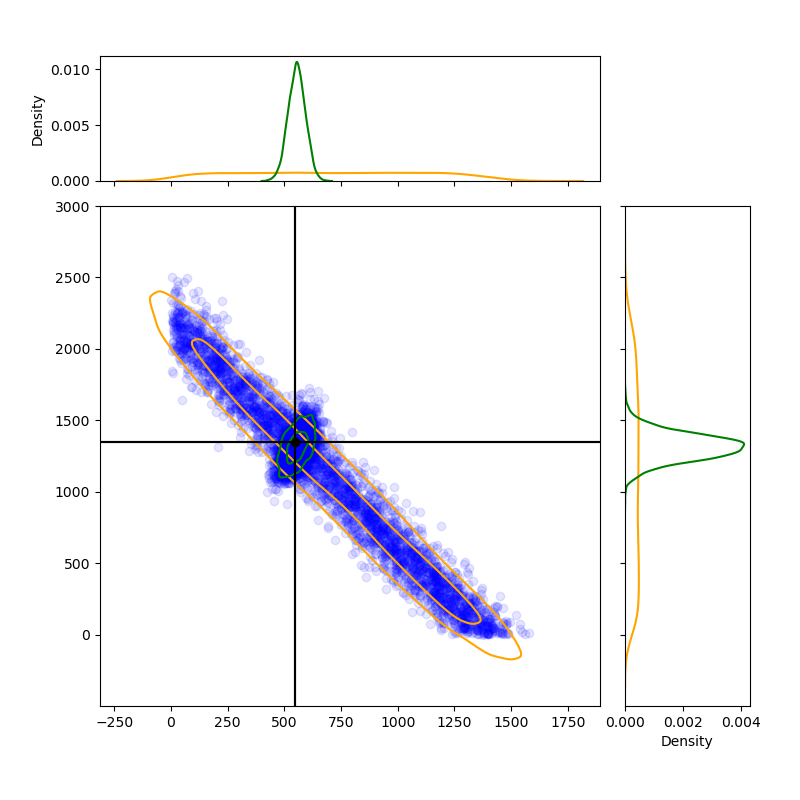
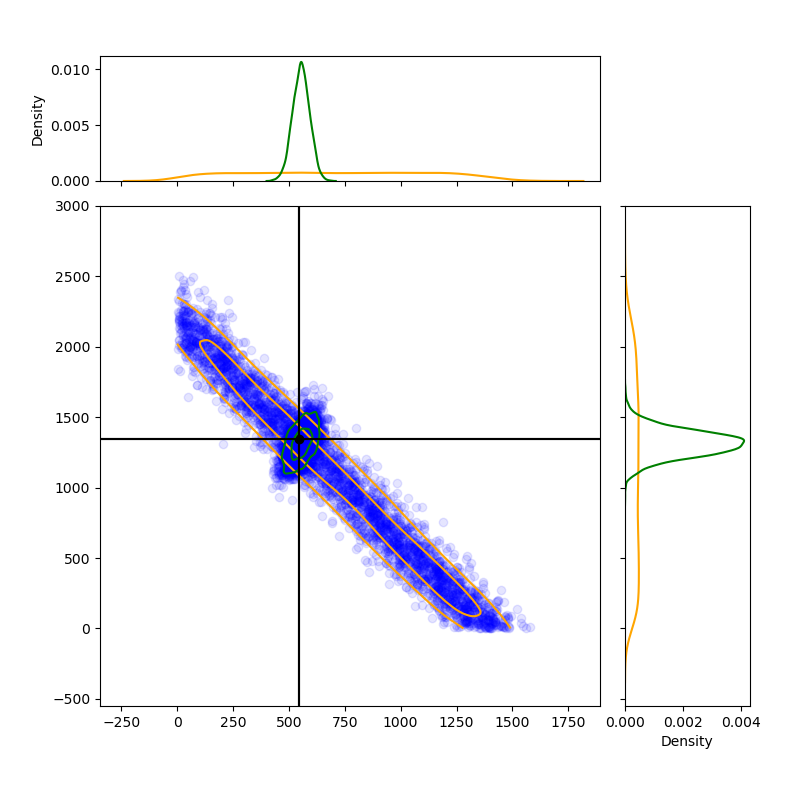
halfway through imposing hard limits for physical reasons

diff --git a/plot_posterior.py b/plot_posterior.py
@@ -1,18 +1,25 @@
+import numpy as np
 import matplotlib.pyplot as plt
 import seaborn as sns
 
 class PlotPosterior:
-    def __init__(self, data1, data2, injected_1, injected_2):
+    def __init__(self, data1, data2, injected_1, injected_2, limit_at_axes=False, limit_at_diagonal=False):
         self.data1 = data1
         self.data2 = data2
         self.injected_1 = injected_1
         self.injected_2 = injected_2
 
+        self.data1_reflected = np.flip(self.data1)
+        self.data2_reflected = np.flip(self.data2)
+
+        if limit_at_axes:
+
+
     def scatter_hist(self, x, y, ax, injected_x, injected_y, ax_histx, ax_histy, **kwargs):
         ax_histx.tick_params(axis="x", labelbottom=False)
         ax_histy.tick_params(axis="y", labelleft=False)
 
-        sns.kdeplot(x=x, y=y, ax=ax, levels=[0.1, 0.5], **kwargs)
+        sns.kdeplot(x=x, y=y, ax=ax, levels=[0.1, 0.5], clip=(0, 3000), **kwargs)
         plt.scatter(x, y, alpha=0.1, color='blue')
 
         sns.kdeplot(x=x, ax=ax_histx, **kwargs)
